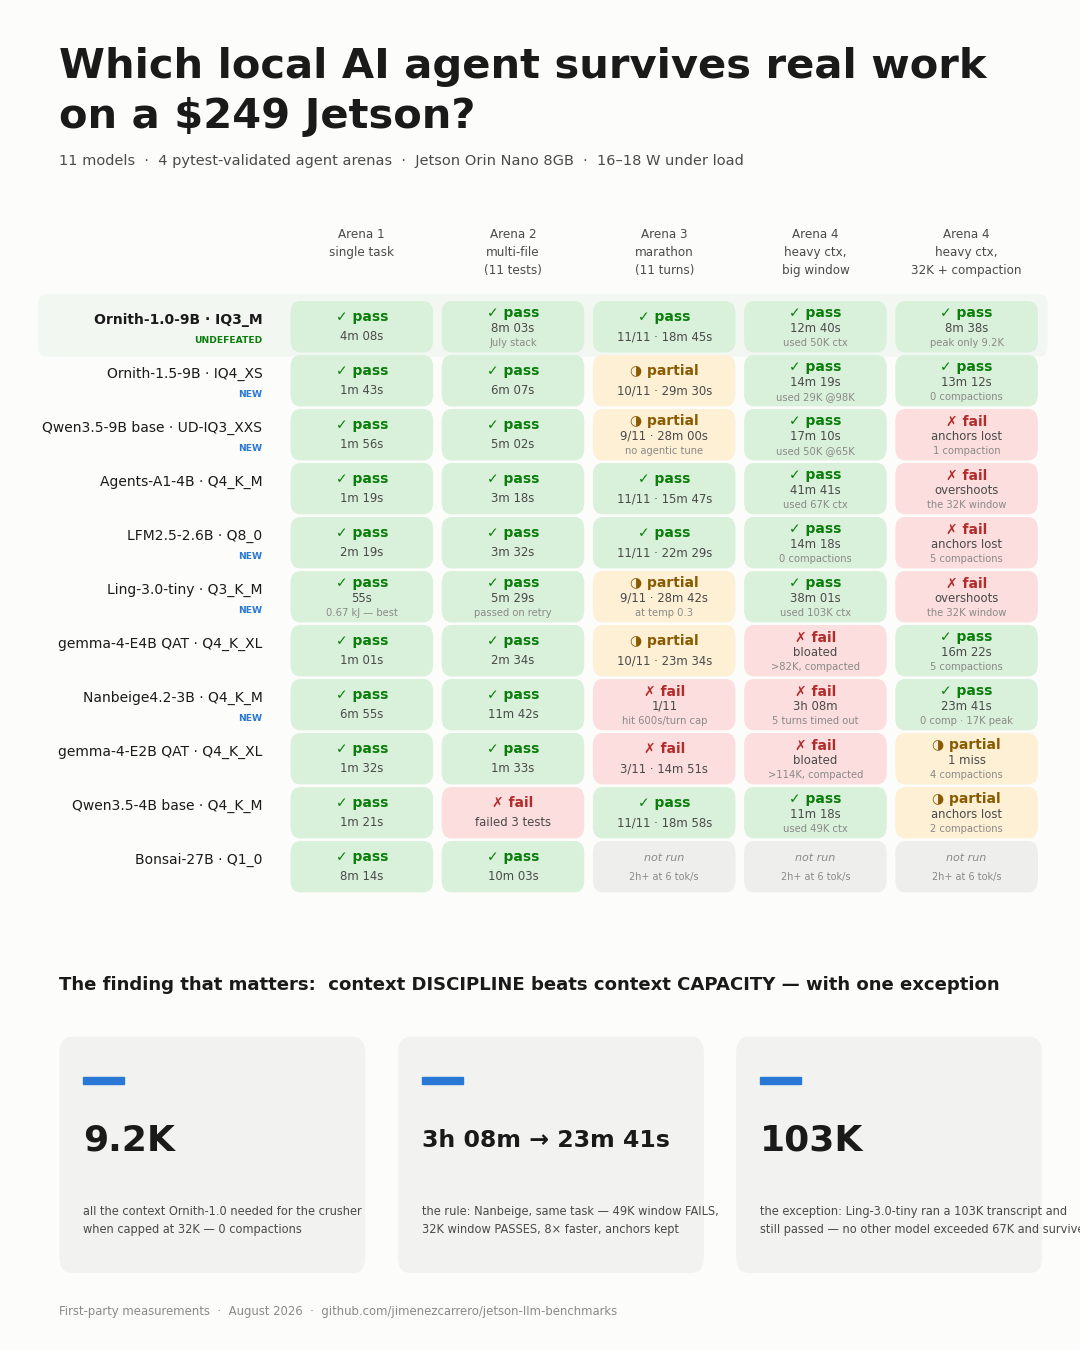
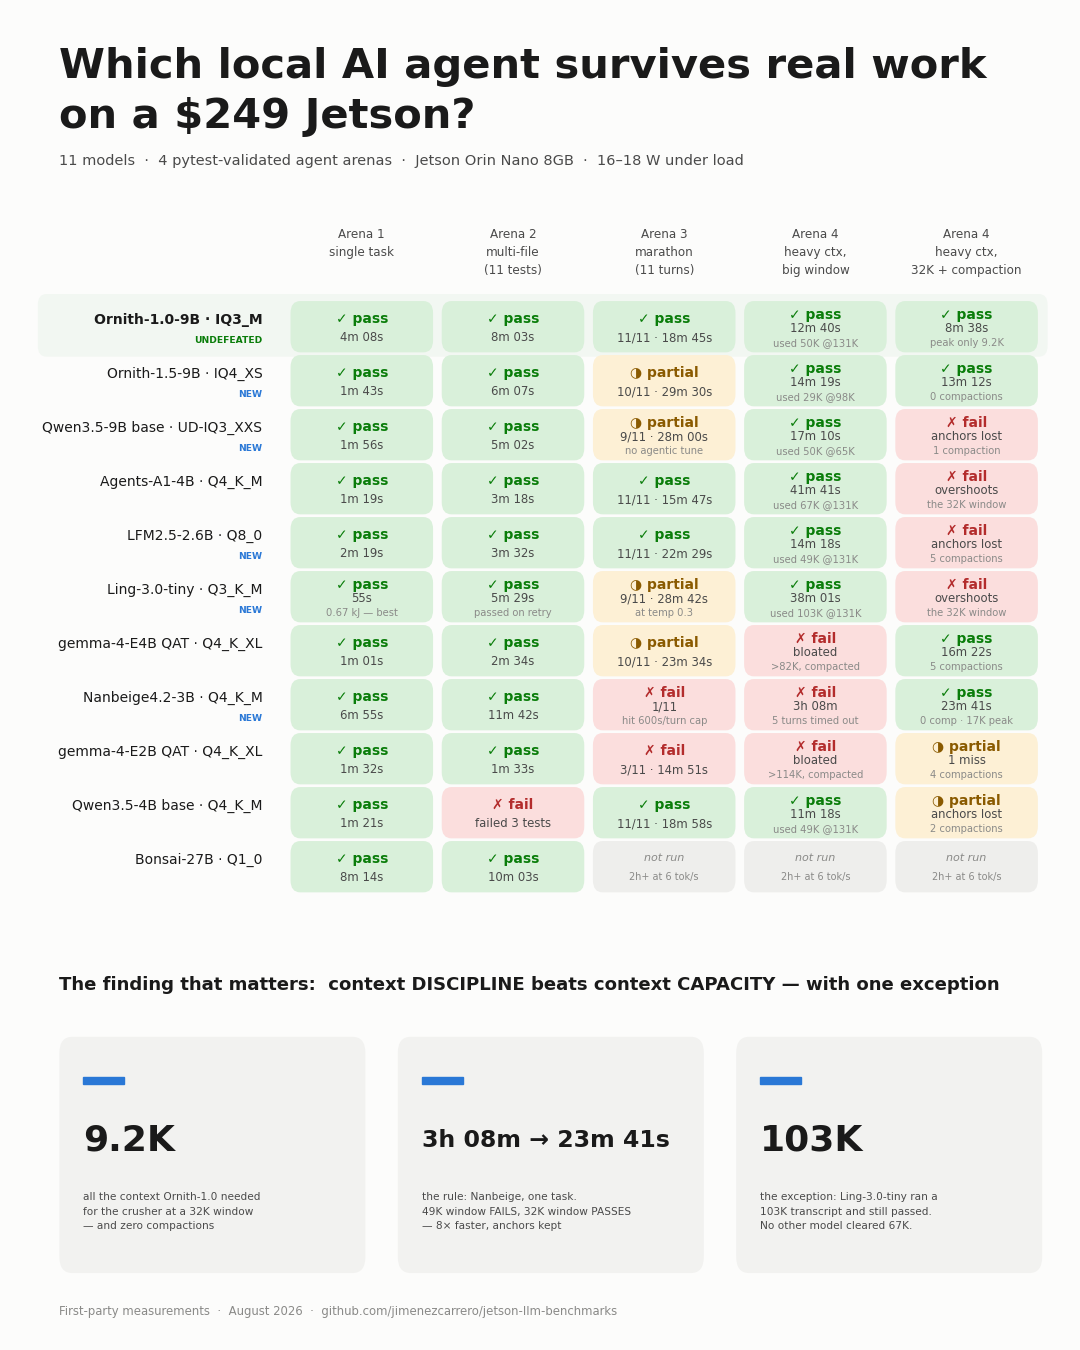
Chart: fix tile overflow, drop the confusing note, show window size everywhere
- Bottom tiles overflowed their boxes in 2 of 3 cases; text rewrapped to <=38
  chars over three lines and font reduced 8.2 -> 7.6
- Removed 'July stack' from the champion's arena-2 cell: it read as a caveat on
  the result rather than a provenance note
- Every big-window cell now states BOTH the context used and the window it ran
  in (used 50K @131K, used 29K @98K, ...) - previously the winner, LFM2.5 and
  base Qwen-4B showed usage without the window, which made them incomparable
- Square variant: row height 0.033 -> 0.042; three-line cells were colliding
  with neighbouring rows

Claude-Session: https://claude.ai/code/session_01AK7zdacdh2M1BACUkLekJ5

diff --git a/round5/results_chart.py b/round5/results_chart.py
@@ -31,8 +31,8 @@ COLS = [
 # (label, badge, [(state, sub, sub2) x5])
 ROWS = [
     ("Ornith-1.0-9B · IQ3_M", "UNDEFEATED", [
-        ("P", "4m 08s", ""), ("P", "8m 03s", "July stack"), ("P", "11/11 · 18m 45s", ""),
-        ("P", "12m 40s", "used 50K ctx"), ("P", "8m 38s", "peak only 9.2K")]),
+        ("P", "4m 08s", ""), ("P", "8m 03s", ""), ("P", "11/11 · 18m 45s", ""),
+        ("P", "12m 40s", "used 50K @131K"), ("P", "8m 38s", "peak only 9.2K")]),
     ("Ornith-1.5-9B · IQ4_XS", "NEW", [
         ("P", "1m 43s", ""), ("P", "6m 07s", ""), ("W", "10/11 · 29m 30s", ""),
         ("P", "14m 19s", "used 29K @98K"), ("P", "13m 12s", "0 compactions")]),
@@ -41,14 +41,14 @@ ROWS = [
         ("P", "17m 10s", "used 50K @65K"), ("F", "anchors lost", "1 compaction")]),
     ("Agents-A1-4B · Q4_K_M", "", [
         ("P", "1m 19s", ""), ("P", "3m 18s", ""), ("P", "11/11 · 15m 47s", ""),
-        ("P", "41m 41s", "used 67K ctx"), ("F", "overshoots", "the 32K window")]),
+        ("P", "41m 41s", "used 67K @131K"), ("F", "overshoots", "the 32K window")]),
     ("LFM2.5-2.6B · Q8_0", "NEW", [
         ("P", "2m 19s", ""), ("P", "3m 32s", ""), ("P", "11/11 · 22m 29s", ""),
-        ("P", "14m 18s", "0 compactions"), ("F", "anchors lost", "5 compactions")]),
+        ("P", "14m 18s", "used 49K @131K"), ("F", "anchors lost", "5 compactions")]),
     ("Ling-3.0-tiny · Q3_K_M", "NEW", [
         ("P", "55s", "0.67 kJ — best"), ("P", "5m 29s", "passed on retry"),
         ("W", "9/11 · 28m 42s", "at temp 0.3"),
-        ("P", "38m 01s", "used 103K ctx"), ("F", "overshoots", "the 32K window")]),
+        ("P", "38m 01s", "used 103K @131K"), ("F", "overshoots", "the 32K window")]),
     ("gemma-4-E4B QAT · Q4_K_XL", "", [
         ("P", "1m 01s", ""), ("P", "2m 34s", ""), ("W", "10/11 · 23m 34s", ""),
         ("F", "bloated", ">82K, compacted"), ("P", "16m 22s", "5 compactions")]),
@@ -60,16 +60,16 @@ ROWS = [
         ("F", "bloated", ">114K, compacted"), ("W", "1 miss", "4 compactions")]),
     ("Qwen3.5-4B base · Q4_K_M", "", [
         ("P", "1m 21s", ""), ("F", "failed 3 tests", ""), ("P", "11/11 · 18m 58s", ""),
-        ("P", "11m 18s", "used 49K ctx"), ("W", "anchors lost", "2 compactions")]),
+        ("P", "11m 18s", "used 49K @131K"), ("W", "anchors lost", "2 compactions")]),
     ("Bonsai-27B · Q1_0", "", [
         ("P", "8m 14s", ""), ("P", "10m 03s", ""), ("-", "", "2h+ at 6 tok/s"),
         ("-", "", "2h+ at 6 tok/s"), ("-", "", "2h+ at 6 tok/s")]),
 ]
 
 TILES = [
-    ("9.2K", "all the context Ornith-1.0 needed for the crusher\nwhen capped at 32K — 0 compactions"),
-    ("3h 08m → 23m 41s", "the rule: Nanbeige, same task — 49K window FAILS,\n32K window PASSES, 8× faster, anchors kept"),
-    ("103K", "the exception: Ling-3.0-tiny ran a 103K transcript and\nstill passed — no other model exceeded 67K and survived"),
+    ("9.2K", "all the context Ornith-1.0 needed\nfor the crusher at a 32K window\n— and zero compactions"),
+    ("3h 08m → 23m 41s", "the rule: Nanbeige, one task.\n49K window FAILS, 32K window PASSES\n— 8× faster, anchors kept"),
+    ("103K", "the exception: Ling-3.0-tiny ran a\n103K transcript and still passed.\nNo other model cleared 67K."),
 ]
 
 
@@ -99,7 +99,7 @@ def draw(fname, W, H, square=False):
     left, right = 0.265, 0.965
     grid_top = sub_y - (0.055 if not square else 0.062)
     n = len(ROWS)
-    row_h = (0.040 if not square else 0.033)
+    row_h = (0.040 if not square else 0.042)
     gap = 0.008
     hdr_h = 0.052
 
@@ -136,14 +136,14 @@ def draw(fname, W, H, square=False):
                     ax.text(cx, y + row_h * 0.5, GLYPH[state], fontsize=8 if not square else 7.2,
                             color=MUTED, ha="center", va="center", style="italic")
                 continue
-            gy = row_h * (0.72 if sub2 else 0.66)
+            gy = row_h * (0.70 if sub2 else 0.62)
             ax.text(cx, y + gy, GLYPH[state], fontsize=10 if not square else 8.8,
                     color=TEXT[state], ha="center", va="center", fontweight="bold")
             if sub:
-                ax.text(cx, y + row_h * (0.44 if sub2 else 0.28), sub,
+                ax.text(cx, y + row_h * (0.43 if sub2 else 0.26), sub,
                         fontsize=8.4 if not square else 7.4, color=INK2, ha="center", va="center")
             if sub2:
-                ax.text(cx, y + row_h * 0.18, sub2, fontsize=7.2 if not square else 6.4,
+                ax.text(cx, y + row_h * 0.17, sub2, fontsize=7.2 if not square else 6.4,
                         color=MUTED, ha="center", va="center")
 
     # ---- finding + tiles ----
@@ -164,7 +164,7 @@ def draw(fname, W, H, square=False):
             fs = 17 if not square else 14
         ax.text(x + 0.022, ty - th * 0.44, big, fontsize=fs, fontweight="bold",
                 color=INK, va="center")
-        ax.text(x + 0.022, ty - th * 0.78, small, fontsize=8.2 if not square else 7.2,
+        ax.text(x + 0.022, ty - th * 0.74, small, fontsize=7.6 if not square else 6.8,
                 color=INK2, va="center", linespacing=1.6)
 
     ax.text(0.055, 0.028,
